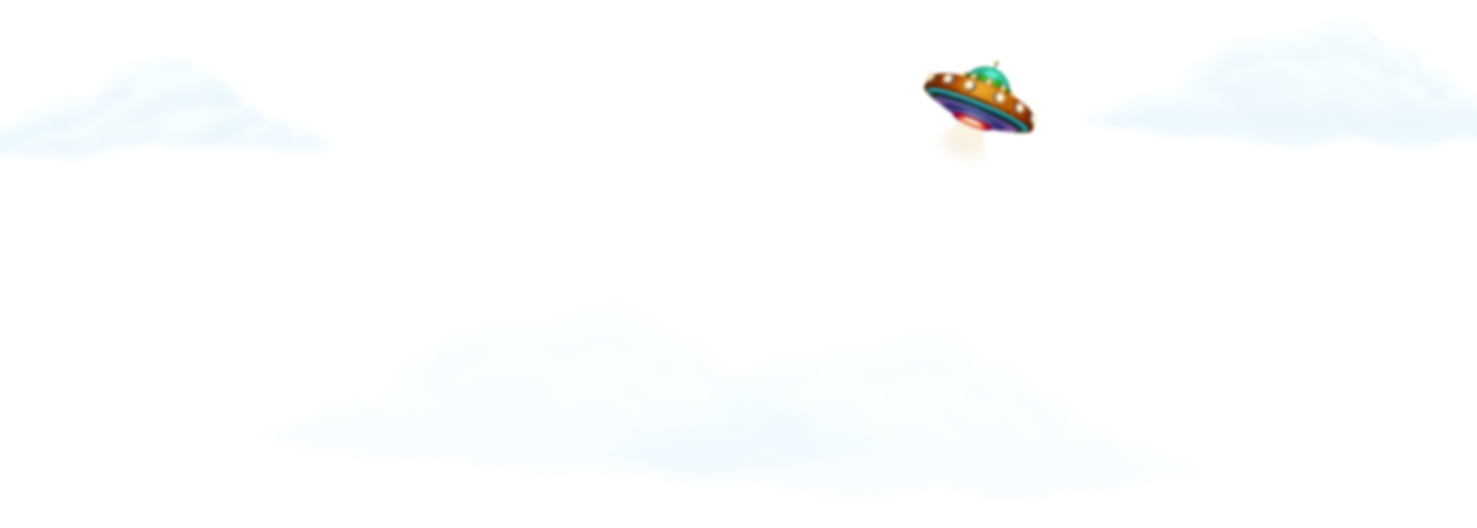
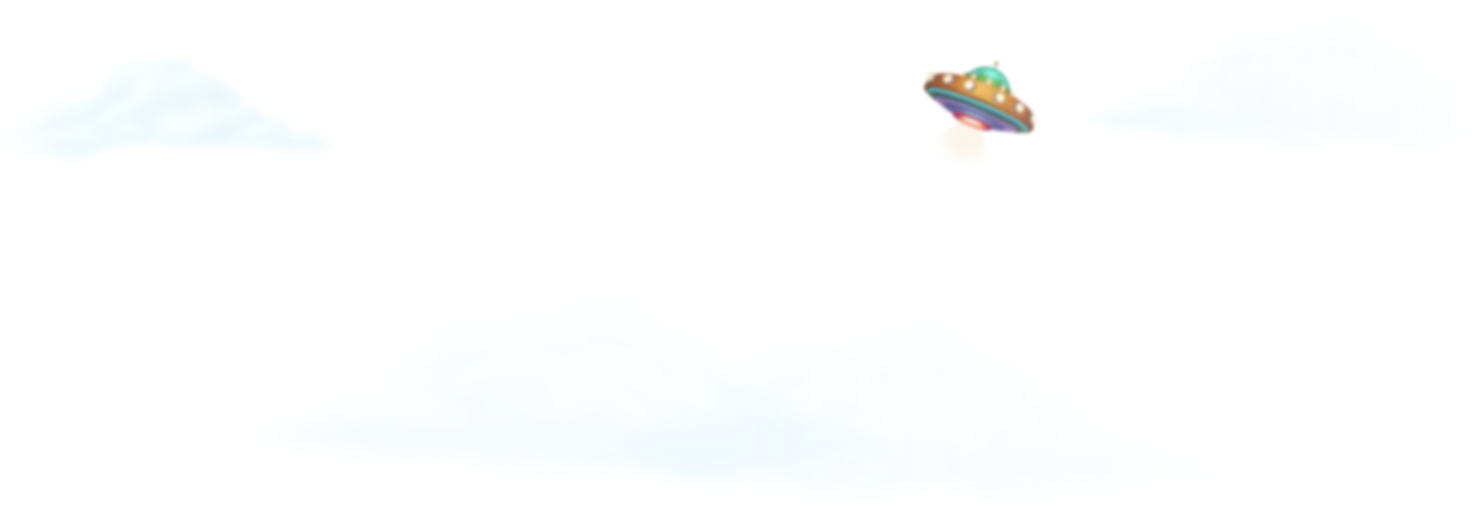
image and typo fix

Changed region(s): [[0.6229, 0.1212, 0.7163, 0.2727]]

diff --git a/css/im.css b/css/im.css
@@ -150,8 +150,8 @@
 }
 .studio-page--wsg-theme {
   --body-bg: #160727;
-  --blog-bg: #211D8666;
-  --card-contained-bg: #270506;
+  --blob-bg: #211D8666;
+  --card-contained-bg: #240637;
   --card-contained-border: transparent;
 }
 .studio-page--wsg-theme .c-accordion {
@@ -255,7 +255,7 @@
   object-fit: contain;
 }
 .studio-page__blob {
-  background: var(--blog-bg);
+  background: var(--blob-bg);
   width: 800px;
   height: 800px;
   position: absolute;

diff --git a/scss/im.scss b/scss/im.scss
@@ -34,8 +34,8 @@
 
   &--wsg-theme {
     --body-bg: #160727;
-    --blog-bg: #211D8666;
-    --card-contained-bg: #270506;
+    --blob-bg: #211D8666;
+    --card-contained-bg: #240637;
     --card-contained-border: transparent;
     .c-accordion {
       --accordion-border-color: #8624A7;
@@ -155,7 +155,7 @@
   }
 
   &__blob {
-    background: var(--blog-bg);
+    background: var(--blob-bg);
     width: 800px;
     height: 800px;
     position: absolute;

diff --git a/css/wsg.css b/css/wsg.css
@@ -150,7 +150,7 @@
 }
 .studio-page--wsg-theme {
   --body-bg: #000;
-  --blog-bg: #ff220030;
+  --blob-bg: #ff220030;
   --card-contained-bg: #270506;
   --card-contained-border: transparent;
 }
@@ -247,7 +247,7 @@
   object-fit: contain;
 }
 .studio-page__blob {
-  background: var(--blog-bg);
+  background: var(--blob-bg);
   width: 800px;
   height: 800px;
   position: absolute;

diff --git a/scss/wsg.scss b/scss/wsg.scss
@@ -34,7 +34,7 @@
 
   &--wsg-theme {
     --body-bg: #000;
-    --blog-bg: #ff220030;
+    --blob-bg: #ff220030;
     --card-contained-bg: #270506;
     --card-contained-border: transparent;
     .c-accordion {
@@ -146,7 +146,7 @@
   }
 
   &__blob {
-    background: var(--blog-bg);
+    background: var(--blob-bg);
     width: 800px;
     height: 800px;
     position: absolute;
